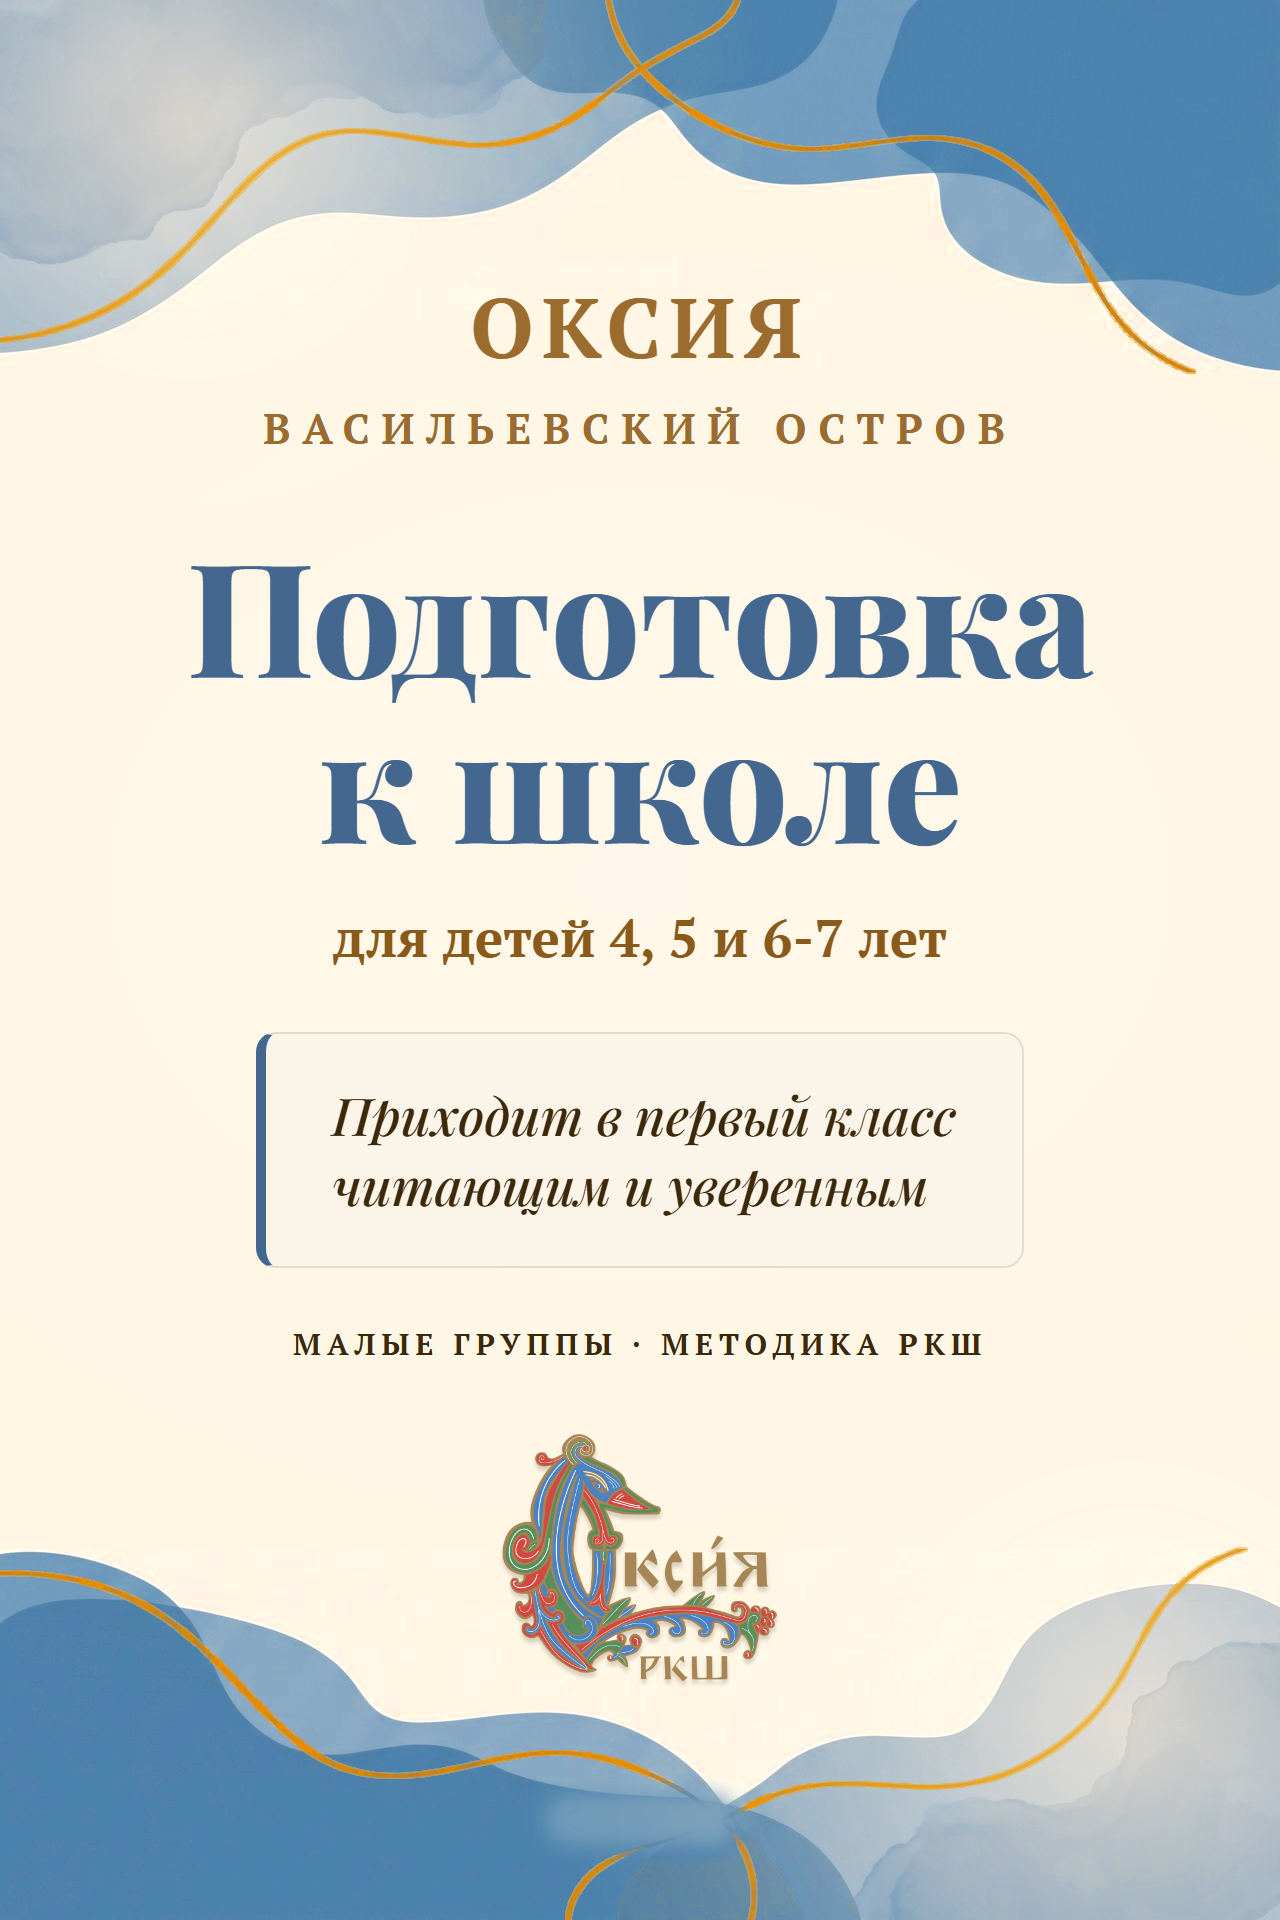
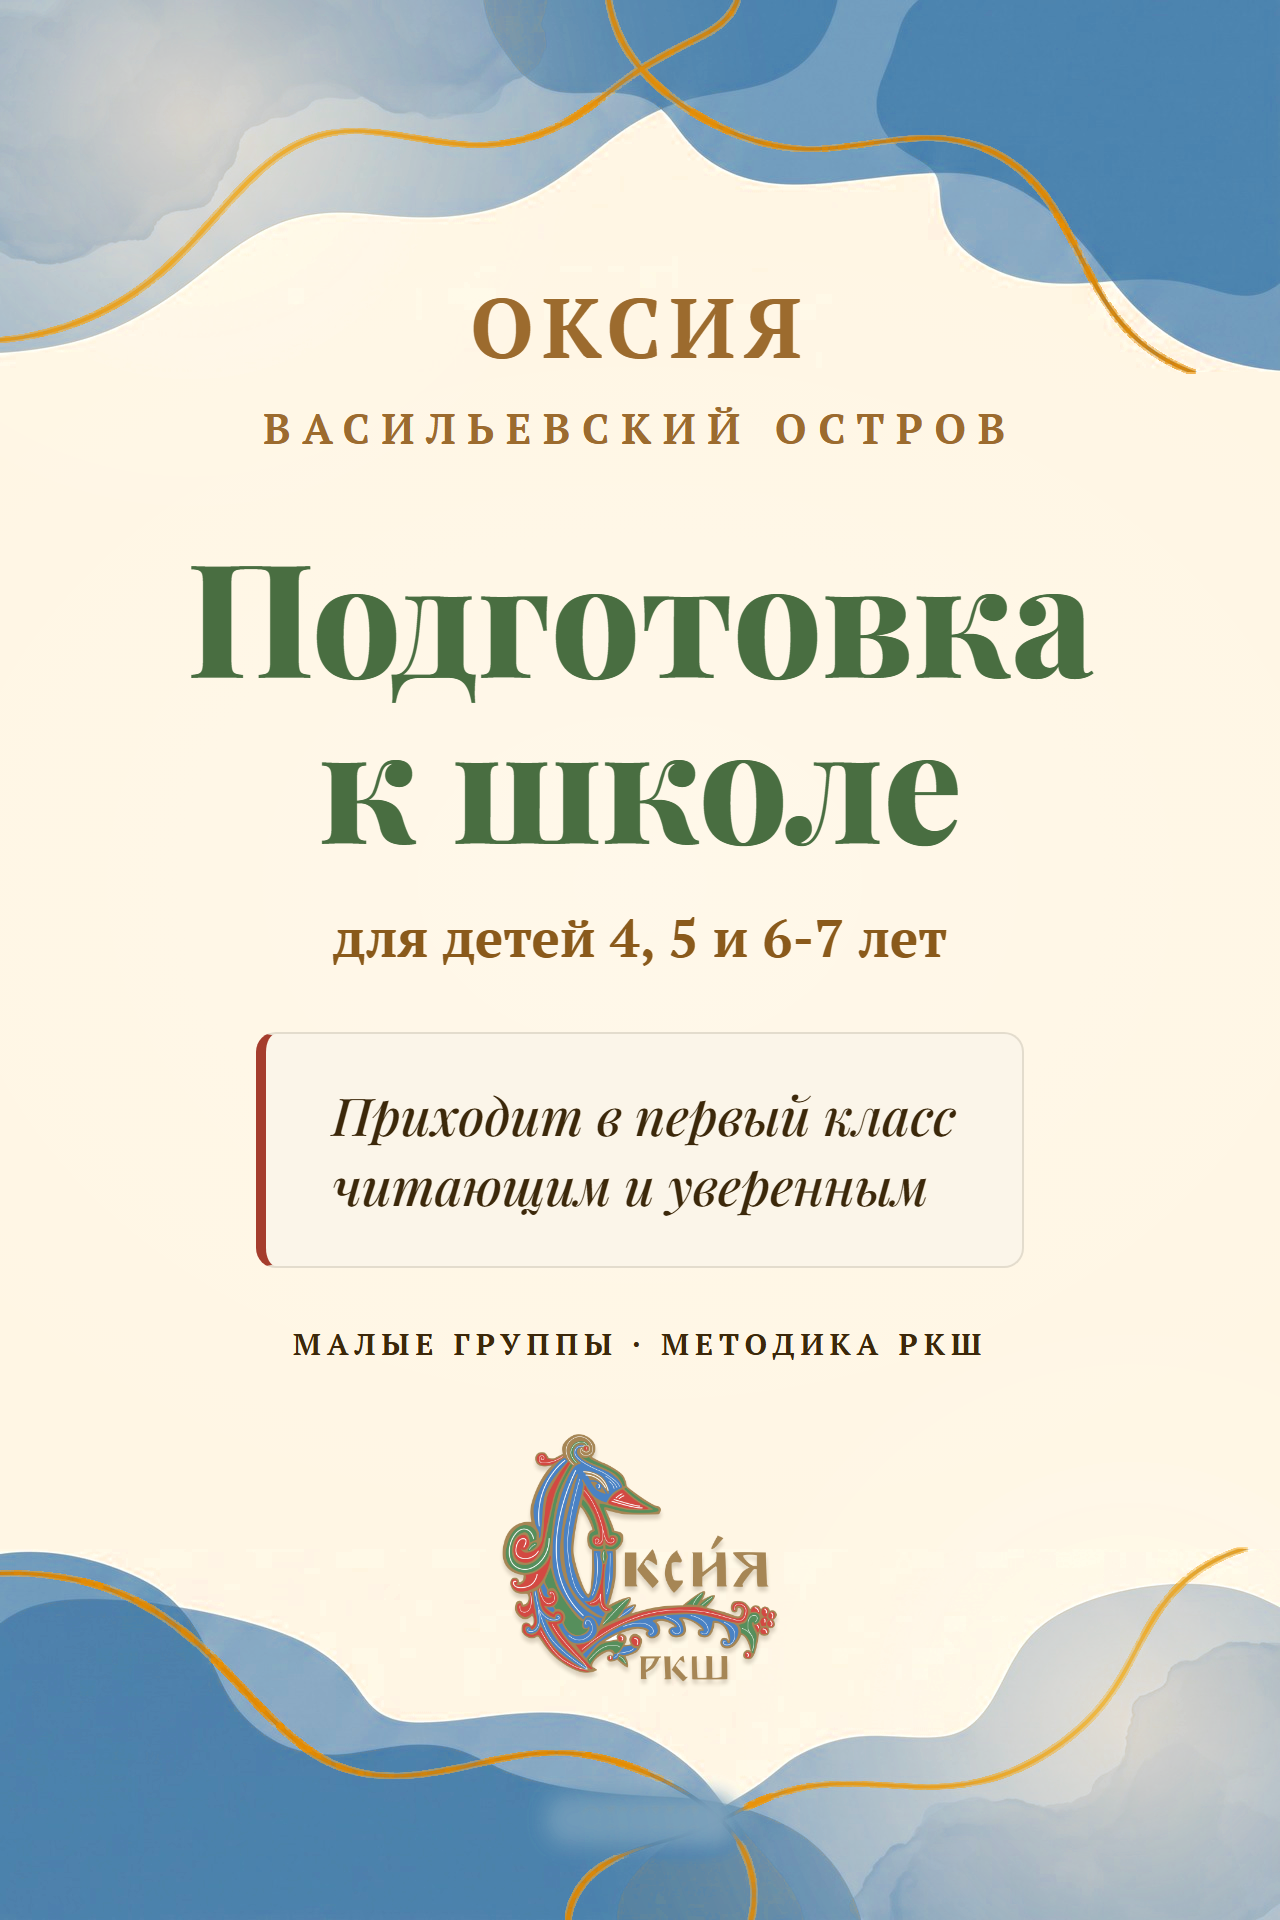
Обложки «Подготовка к школе» и «Семейные классы»: добавлен зелёный+красный акцент вместо монотонного цвета
Правка по голосовому фидбеку Натальи (20.09) — обе обложки делили один и тот же синий фон и выглядели монотонно рядом друг с другом.

Changed region(s): [[0.1562, 0.2812, 0.8438, 0.4375], [0.1875, 0.5312, 0.2188, 0.6562]]

diff --git a/story-preview/_build/story-covers-bright.html b/story-preview/_build/story-covers-bright.html
@@ -63,7 +63,7 @@
     margin-top:60px;
     background:var(--chip-bg);
     border:2px solid rgba(60,40,10,.12);
-    border-left:10px solid var(--accent, var(--red-muted));
+    border-left:10px solid var(--accent2, var(--accent, var(--red-muted)));
     border-radius:20px;
     padding:46px 66px;
     font-size:52px; line-height:1.34; color:var(--ink);
@@ -78,7 +78,7 @@
   }
   .phone{
     margin-top:56px;
-    font-size:53px; font-weight:700; color:var(--accent, var(--red-muted));
+    font-size:53px; font-weight:700; color:var(--accent2, var(--accent, var(--red-muted)));
     font-family:"Playfair Display",serif;
   }
 
@@ -95,7 +95,7 @@ const S = {
 1:{ title:'Подготовка<br>к школе', sub:'для детей 4, 5 и 6-7 лет',
     chip:'Приходит в первый класс<br>читающим и уверенным',
     bottom:{type:'facts', text:'малые группы · методика РКШ'},
-    accent:'var(--blue-muted)', bg:'bg-tb-bright.png' },
+    accent:'var(--green-muted)', accent2:'var(--red-muted)', bg:'bg-tb-bright.png' },
 
 2:{ title:'Семейные<br>классы', sub:'начальная школа полного дня',
     chip:'Маленький класс, где педагог<br>видит каждого ребёнка',
@@ -127,6 +127,7 @@ const n = parseInt(new URLSearchParams(location.search).get('n')||'2',10);
 const s = S[n];
 document.body.style.backgroundImage = `url("${s.bg}")`;
 document.getElementById('zone').style.setProperty('--accent', s.accent);
+document.getElementById('zone').style.setProperty('--accent2', s.accent2 || s.accent);
 const z = document.getElementById('zone');
 let html = `<div class="kick kick-brand">ОКСИЯ</div><div class="kick kick-loc">ВАСИЛЬЕВСКИЙ ОСТРОВ</div>`;
 html += `<div class="stripe"><i class="b"></i><i class="r"></i><i class="g"></i></div>`;

diff --git a/card-preview/index.html b/card-preview/index.html
@@ -28,8 +28,8 @@
 
   <h2>Обложки историй</h2>
   <div class="grid">
-    <div class="card"><img src="cover-01.png?v=2" alt="Подготовка к школе"></div>
-    <div class="card"><img src="story-sample-01-bright.png?v=8" alt="Семейные классы"></div>
+    <div class="card"><img src="cover-01.png?v=3" alt="Подготовка к школе"></div>
+    <div class="card"><img src="story-sample-01-bright.png?v=9" alt="Семейные классы"></div>
     <div class="card"><img src="cover-03.png?v=2" alt="Дополнительные занятия"></div>
     <div class="card"><img src="cover-04.png?v=2" alt="Педагоги, которые выбрали РКШ"></div>
     <div class="card"><img src="cover-05.png?v=3" alt="День идёт по расписанию"></div>

diff --git a/story-preview/_build/story-sample-01-bright.html b/story-preview/_build/story-sample-01-bright.html
@@ -59,14 +59,14 @@
     margin-top:40px;
   }
   .disp .w1{ color:var(--red-muted); }
-  .disp .w2{ color:var(--red-muted); }
+  .disp .w2{ color:var(--green-muted); }
   .sub{ margin-top:40px; font-size:53px; font-weight:700; color:var(--bronze); }
 
   .chip{
     margin-top:60px;
     background:var(--chip-bg);
     border:2px solid rgba(60,40,10,.12);
-    border-left:10px solid var(--red-muted);
+    border-left:10px solid var(--green-muted);
     border-radius:20px;
     padding:46px 66px;
     font-size:52px; line-height:1.34; color:var(--ink);
